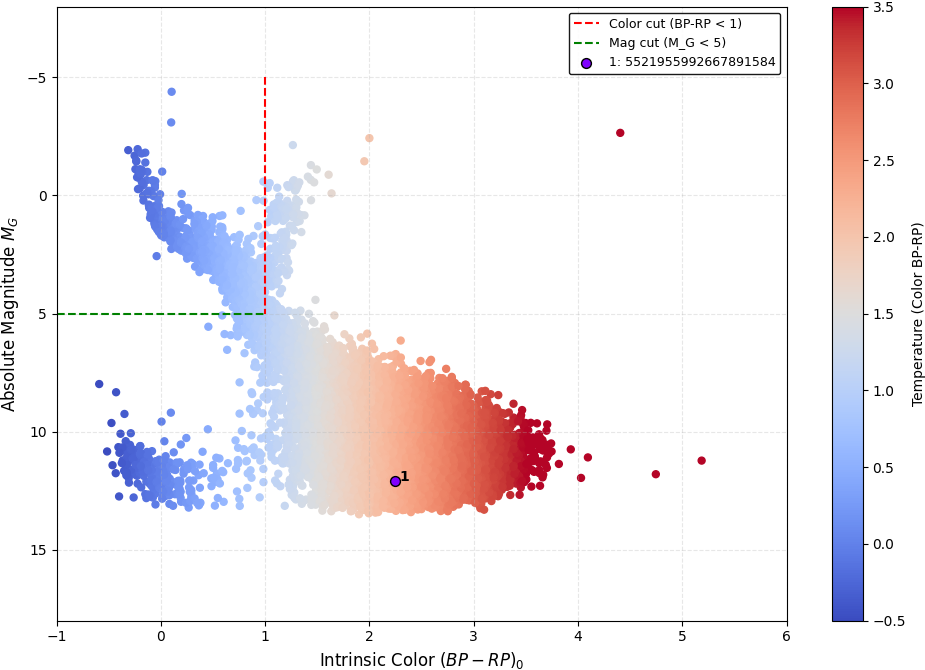
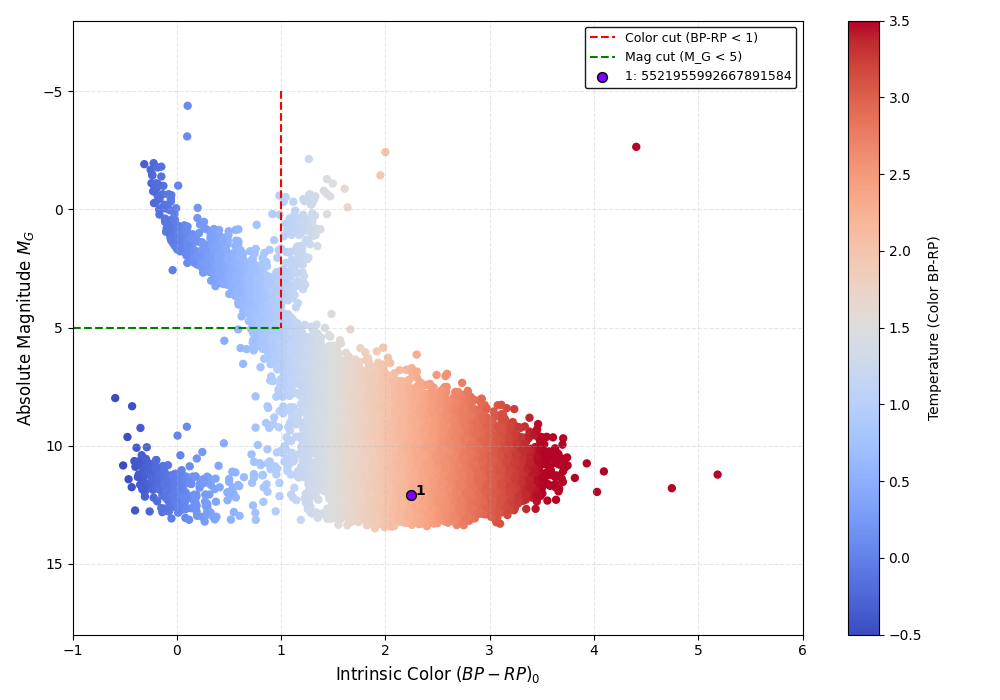
Changes on Vela

diff --git a/main_oop.py b/main_oop.py
@@ -1202,7 +1202,7 @@ def load_pulsar(csv_path, pulsar_id):
 if __name__ == "__main__":
     np.random.seed(42)
 
-    PULSAR_NAME = 'J1809-1943' 
+    PULSAR_NAME = 'B0833-45'
     CANDIDATES_NUMBER = 10
     FILTERS = 0 # 0: Without filter - 1: With filter
 
